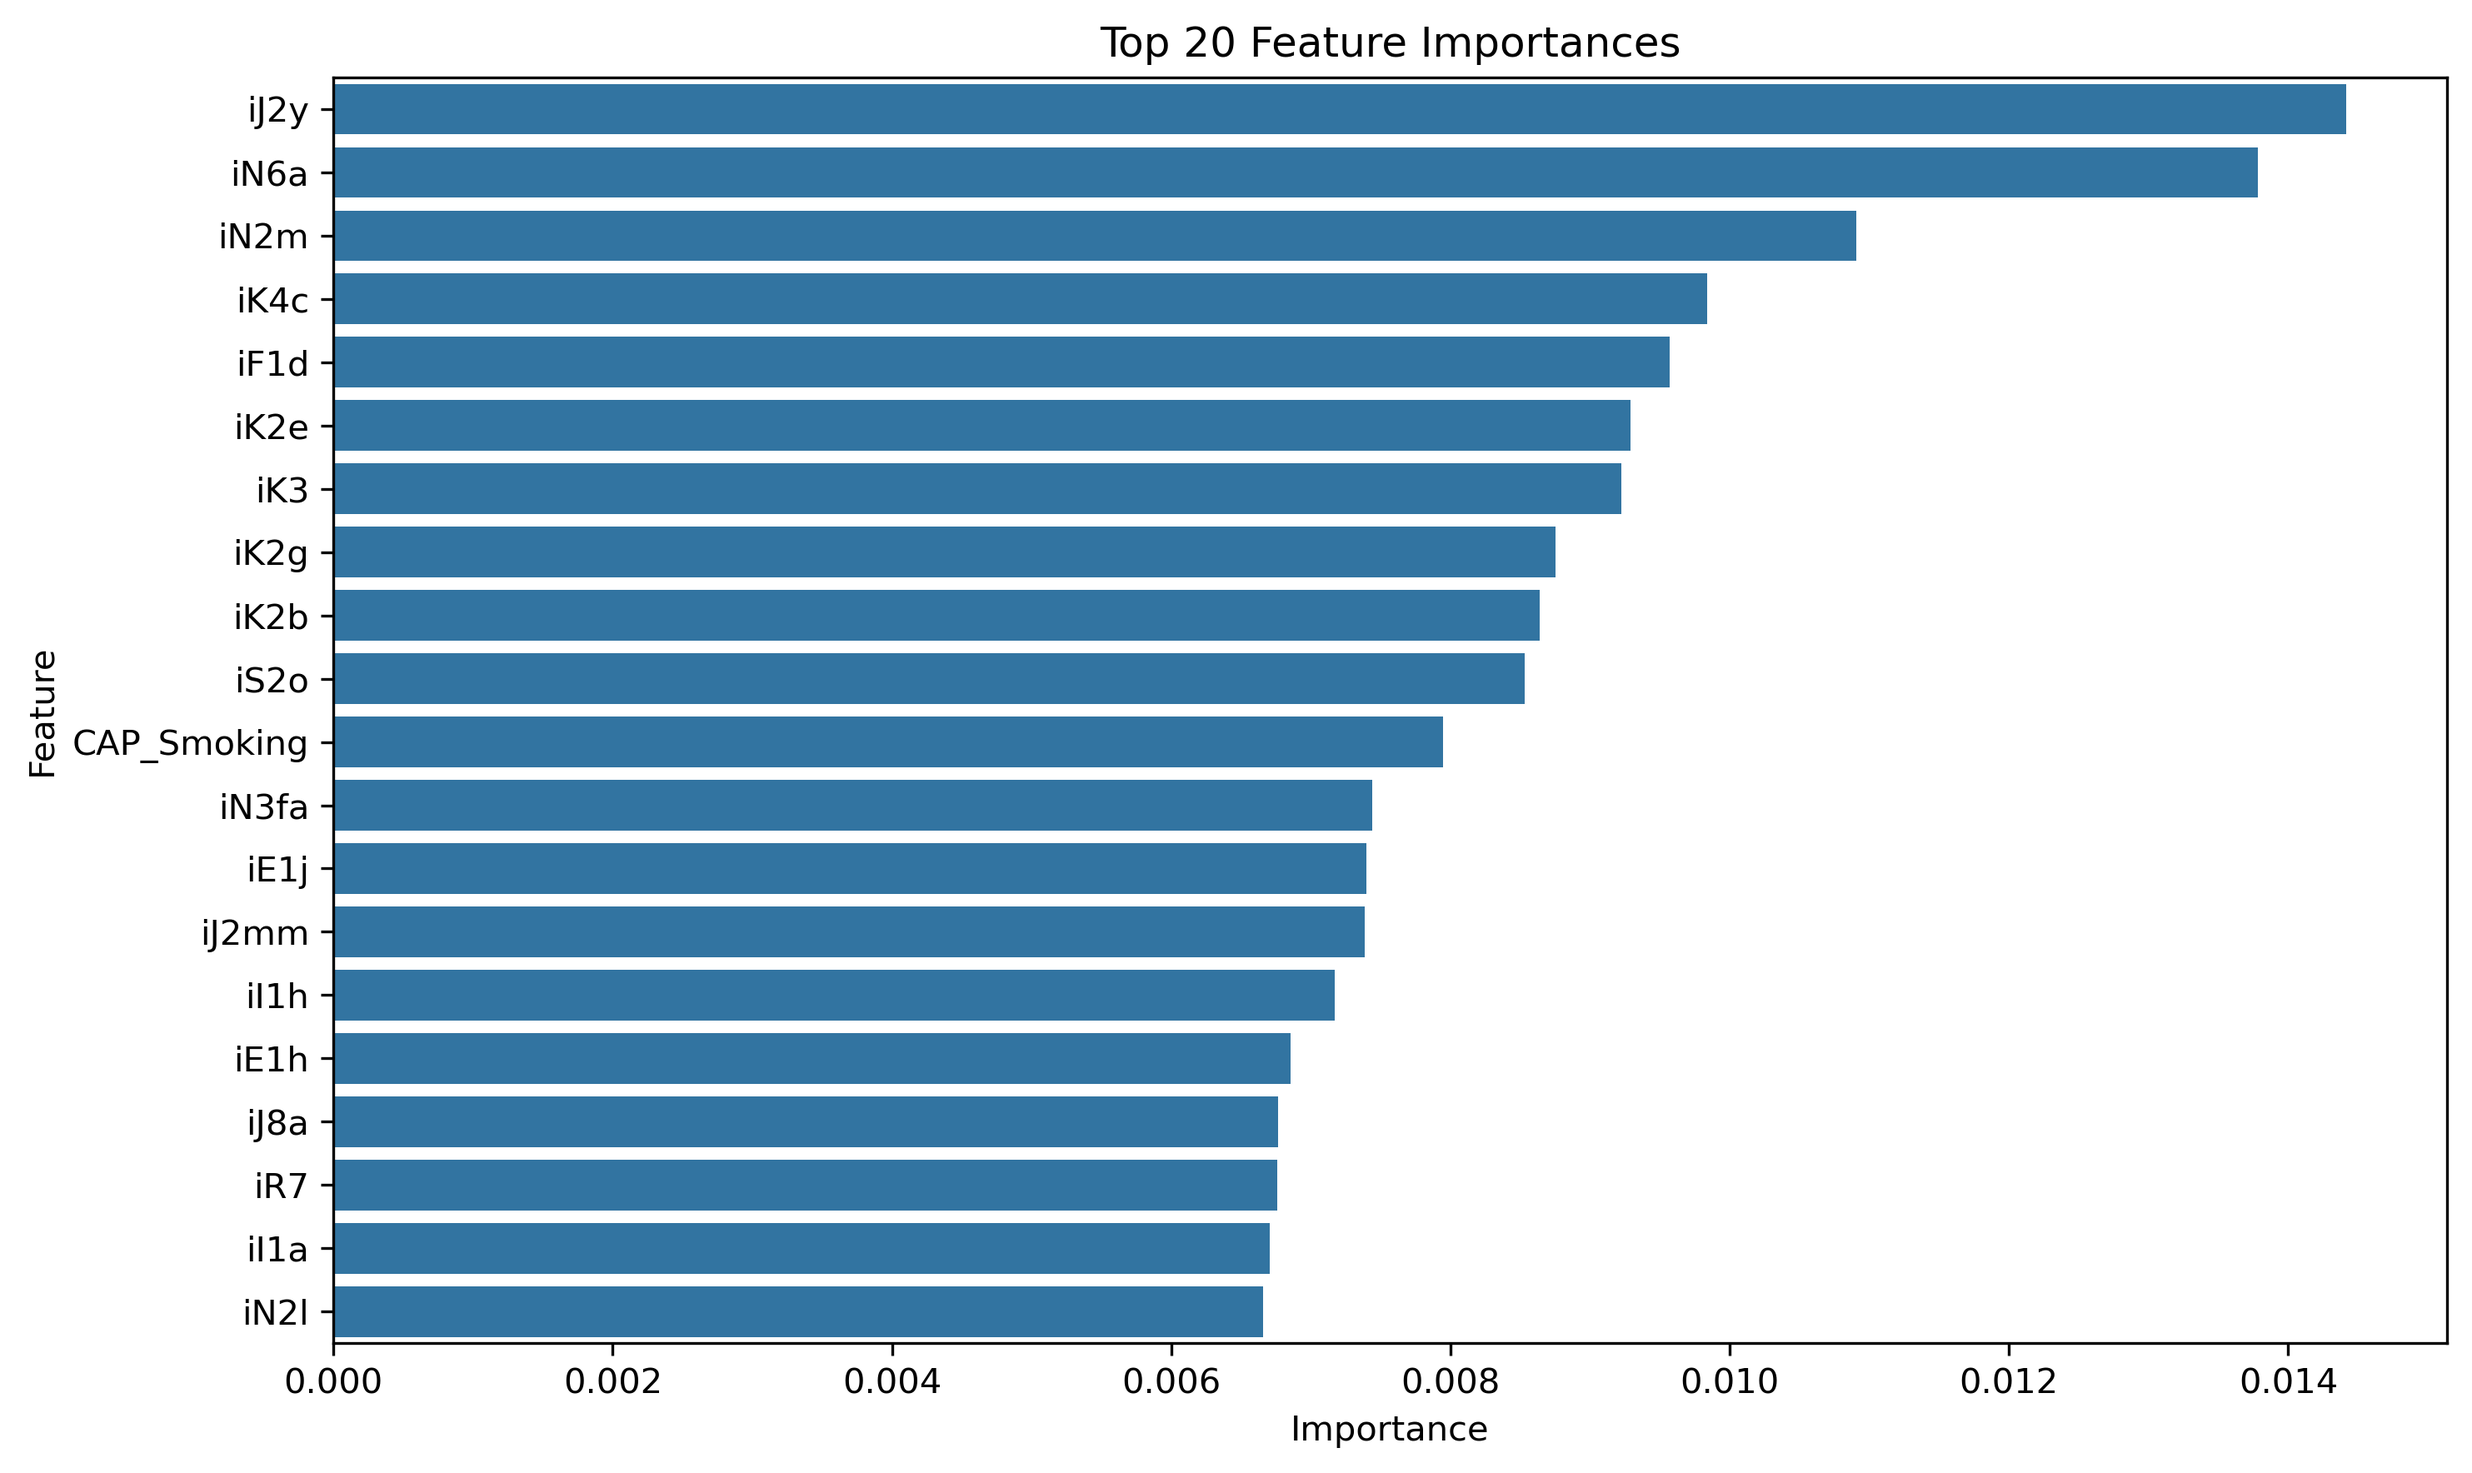
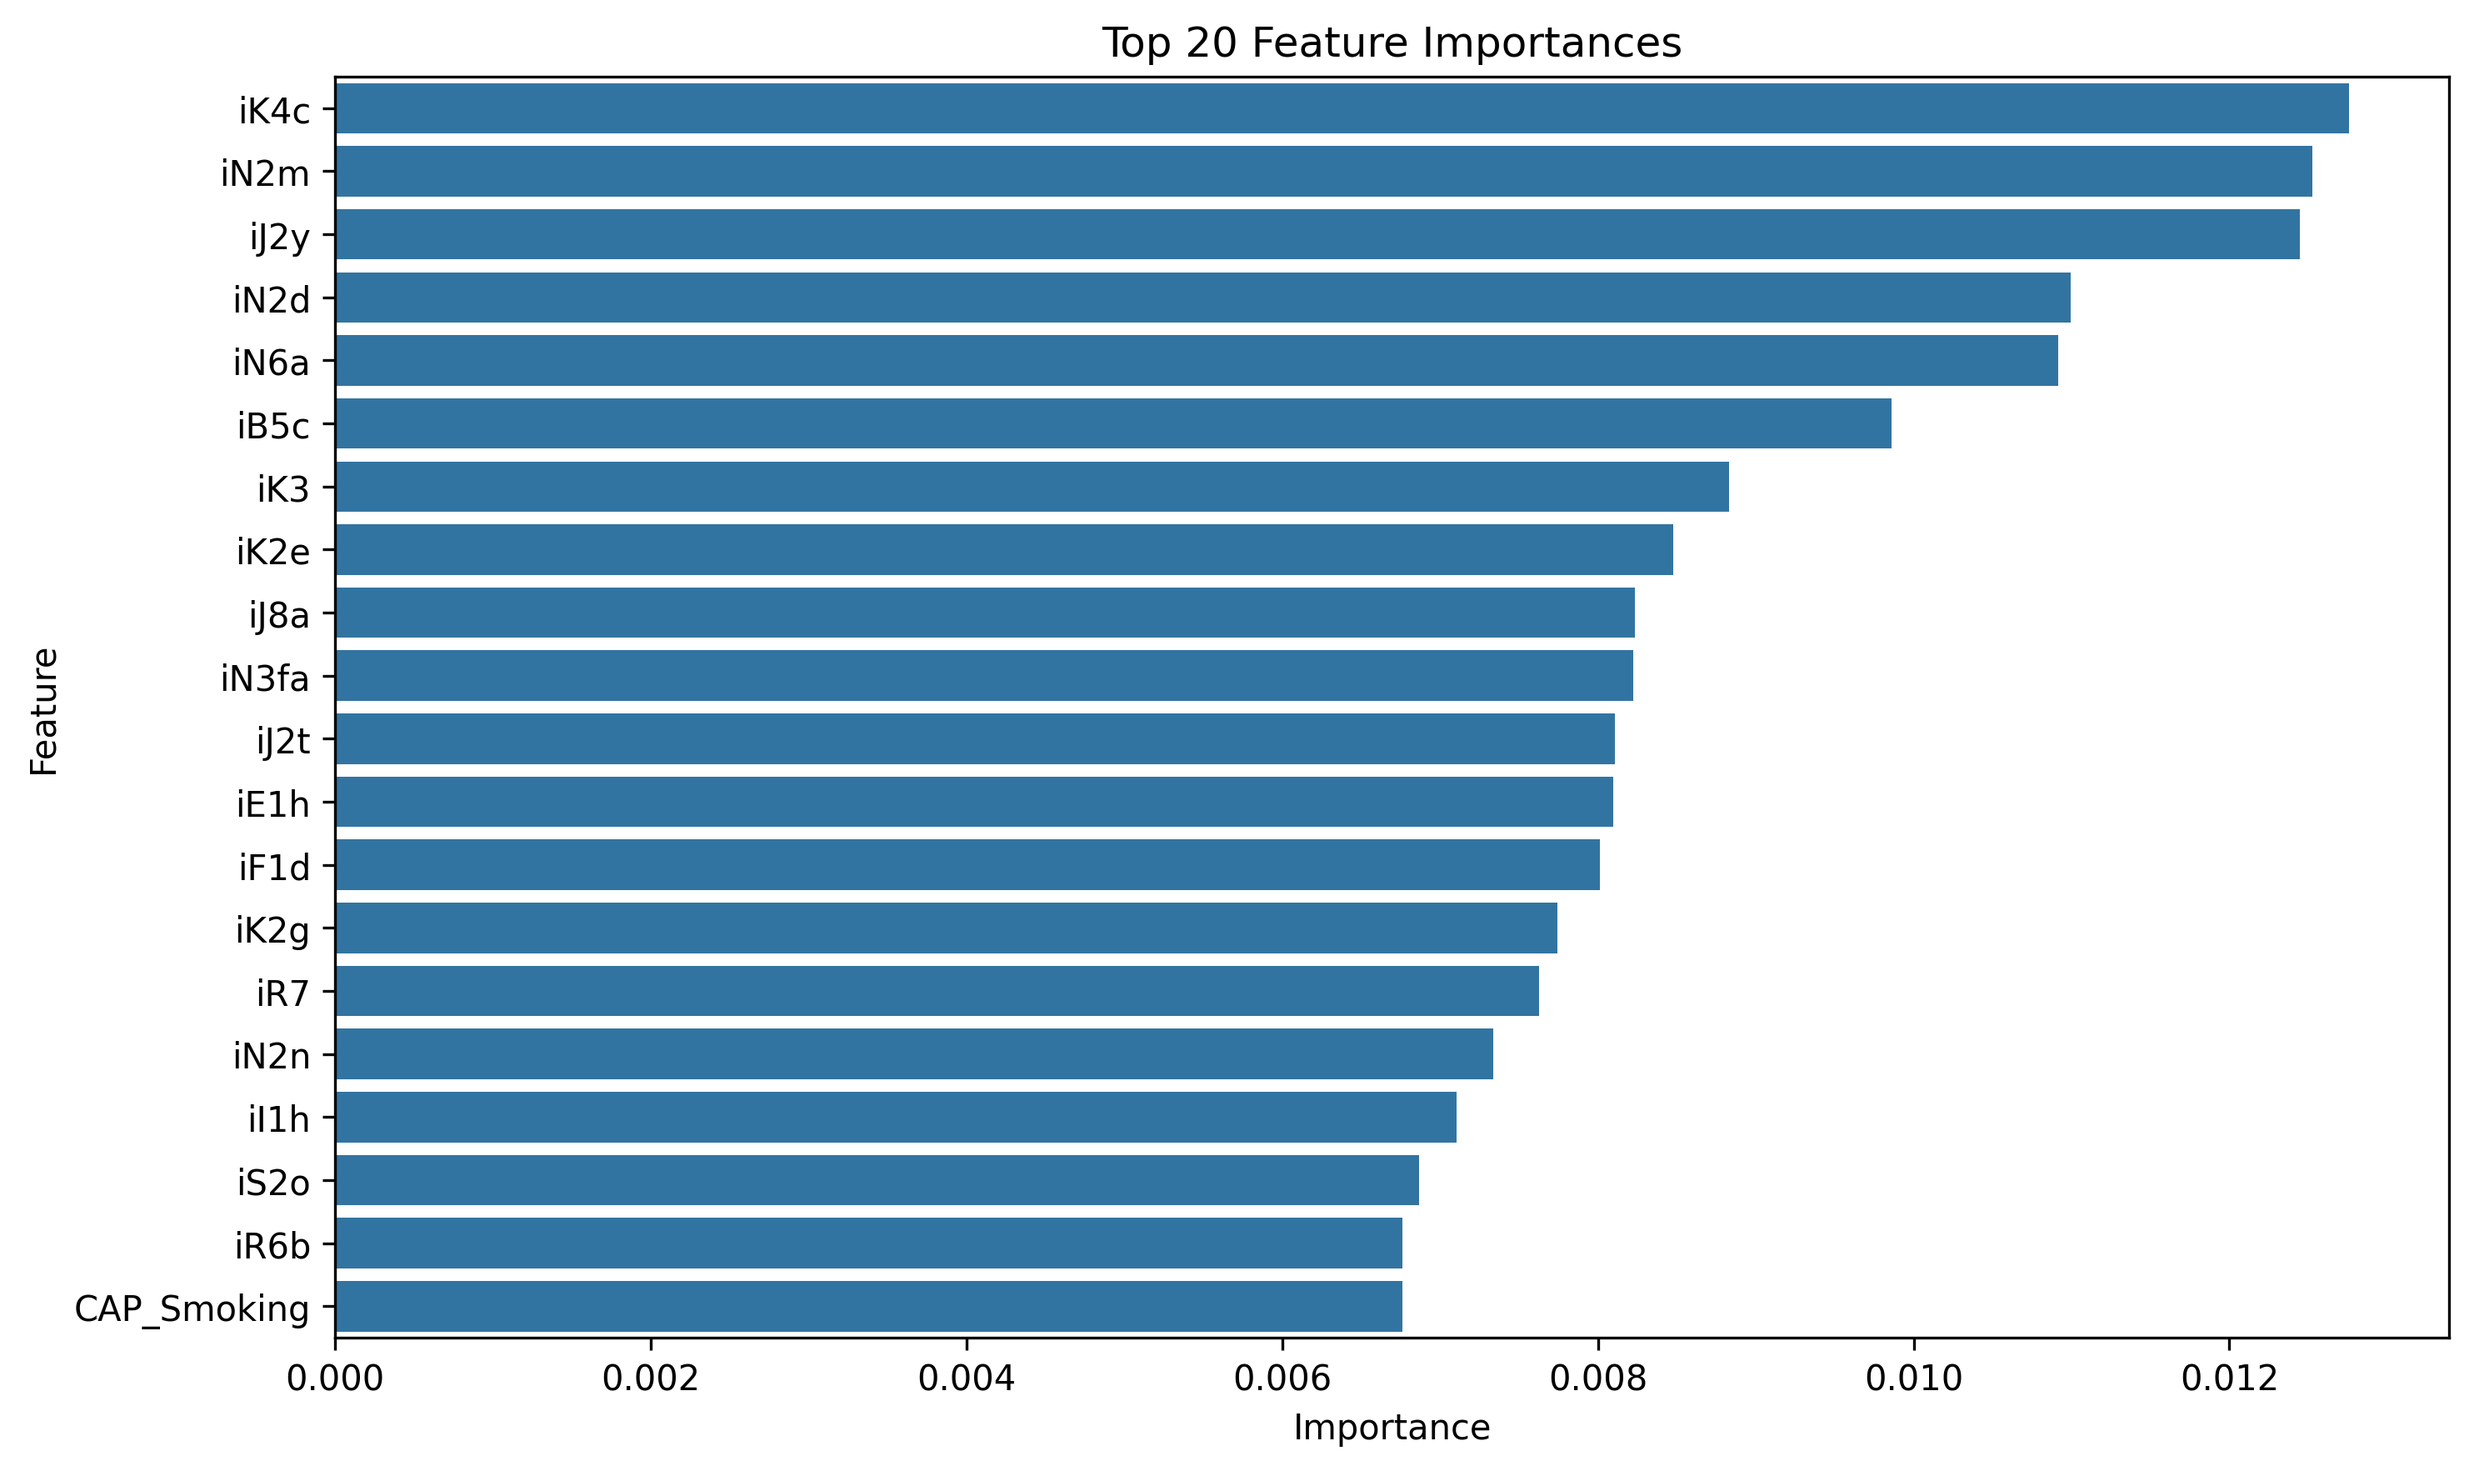
Add the shap to XGBoost Cap model

Changed region(s): [[0.0, 0.0935, 0.9922, 0.9972], [0.093, 0.0623, 0.155, 0.3116], [0.4341, 0.0312, 0.6822, 0.0623]]

diff --git a/XGboost model/XGboost_CAP_without_Malnutrition_Score.py b/XGboost model/XGboost_CAP_without_Malnutrition_Score.py
@@ -9,7 +9,7 @@ from sklearn.metrics import classification_report, confusion_matrix
 import shap
 
 def split_cap_data(df):
-    cols_to_drop = [df.columns[0], df.columns[1], 'CAP_Nutrition', 'Scale_BMI', 'Cap_cognitive']
+    cols_to_drop = [df.columns[0], df.columns[1], 'CAP_Nutrition', 'Scale_BMI']
     X = df.drop(columns=cols_to_drop)
     if 'Malnutrition' in X.columns:
         X = X.drop(columns=['Malnutrition'])
